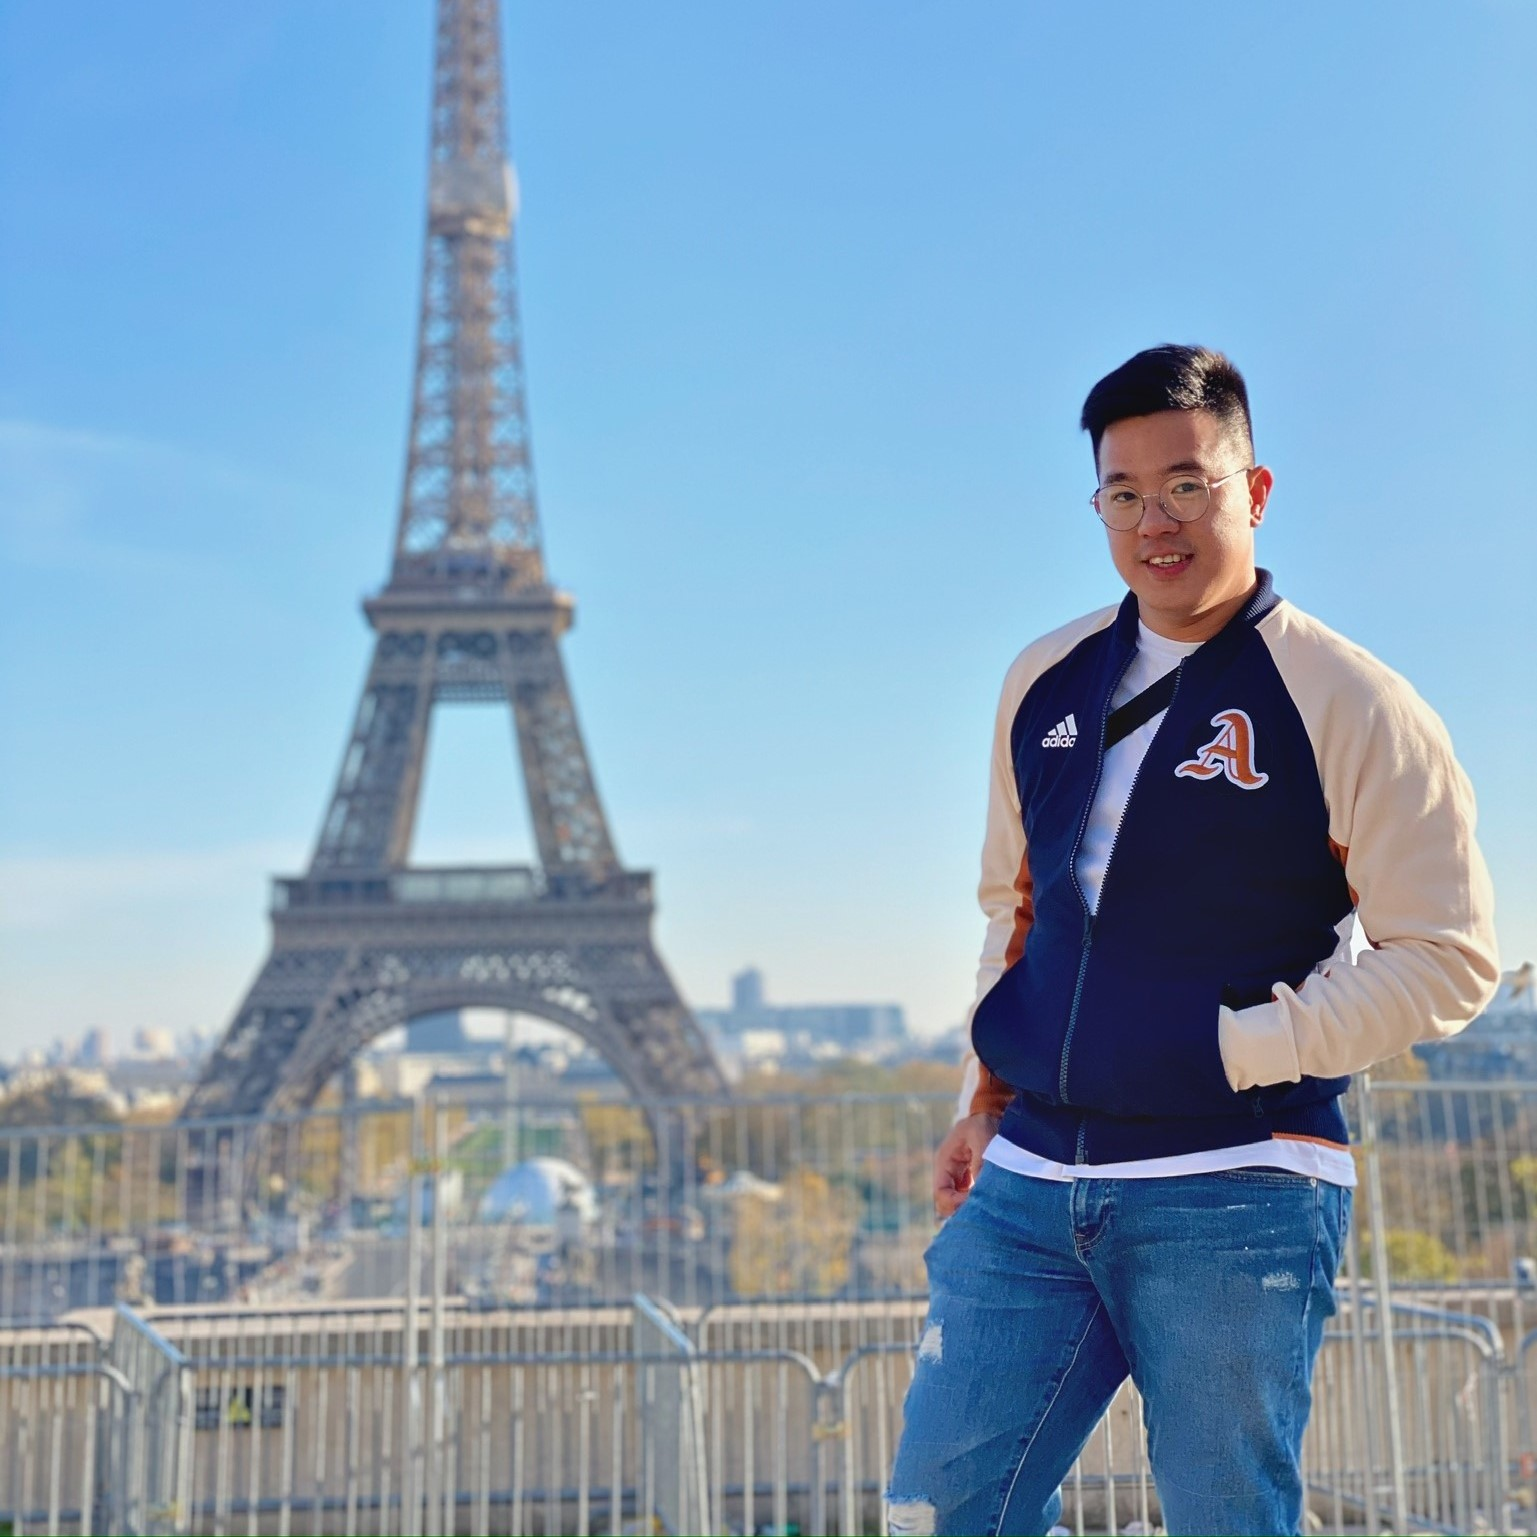
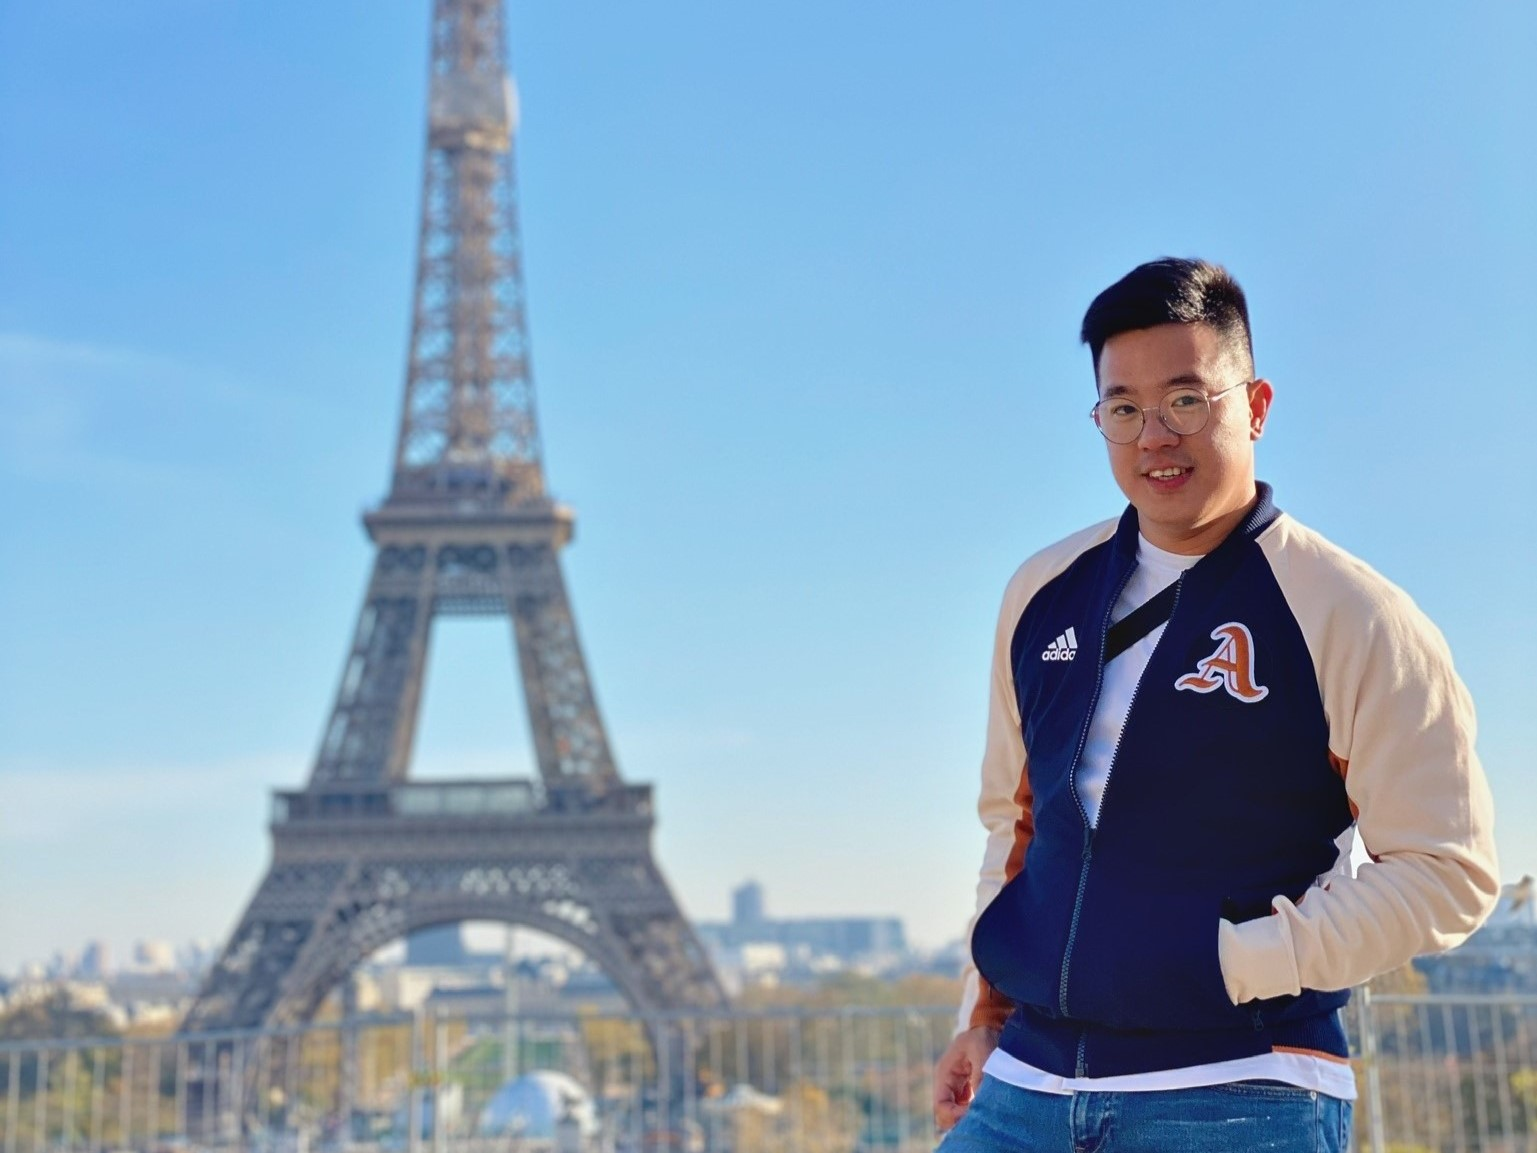
debugged and fixed journey slider's undesired display
also resized all photos to ratio 4:3

diff --git a/my-react-portfolio/src/components/portfolio/portfolio.css b/my-react-portfolio/src/components/portfolio/portfolio.css
@@ -2,32 +2,19 @@
     padding-top: 2.5rem;
 }
 
-.portfolio_container {
-    display: grid;
-    grid-template-columns: repeat(3, 1fr);
-    gap: 2.5rem;
-}
-
 .portfolio_item {
     background: var(--color-bg-variant);
     padding: 1.2rem;
     border-radius: 2rem;
     border: 1px solid transparent;
     transition: var(--transition);
-    max-width: 700px;
-    max-height: 48vh;
+    max-width: 900px;
+    max-height: 750px;
 }
 
 .portfolio_item-img {
     border-radius: 1.5rem;
     overflow: hidden;
-    max-width: 600px;
-    max-height: 40vh;
-    background-repeat: no-repeat;
-    background-size: contain;
-    text-align: center;
-    background-position: center;
-    object-fit: contain;
 }
 
 .portfolio_item h3 {
@@ -40,18 +27,41 @@
     margin-bottom: 1rem;
 }
   
+/* ==================== MEDIA (Big Devices - Tablets) ==================== */
+@media screen and (max-width: 1440px) {
+
+    .portfolio_item {
+        max-width: 700px;
+        max-height: 600px;
+    }
+    
+    .portfolio_item h3 {
+        font-size: 1rem;
+    }
+}
 
 /* ==================== MEDIA (Medium Devices - Tablets) ==================== */
 @media screen and (max-width: 1024px) {
-    .portfolio_container {
-        grid-template-columns: 1fr 1fr;
+
+    .portfolio_item {
+        max-width: 500px;
+        max-height: 450px;
+    }
+    
+    .portfolio_item h3 {
+        font-size: 1rem;
     }
 }
 
 /* ==================== MEDIA (Small Devices - Phones) ==================== */
 @media screen and (max-width: 600px) {
-    .portfolio_container {
-        grid-template-columns: 1fr;
-        gap: 1rem;
+
+    .portfolio_item {
+        max-width: 300px;
+        max-height: 270px;
+    }
+    
+    .portfolio_item h3 {
+        font-size: 0.6rem;
     }
 }

diff --git a/my-react-portfolio/src/components/portfolio/portfolioData.jsx b/my-react-portfolio/src/components/portfolio/portfolioData.jsx
@@ -35,7 +35,7 @@ const data = [
   {
     id: 6,
     image: IMAGES.IMG6,
-    title: 'Golden Gate Brg, San Francisco, CA, United States',
+    title: 'San Francisco, United States',
     year: '2023'
   },
   {
@@ -84,7 +84,7 @@ const data = [
   {
     id: 14,
     image: IMAGES.IMG14,
-    title: 'Reflections at Keppel Bay, Singapore',
+    title: 'Keppel Bay, Singapore',
     year: '2022'
   },
   {
@@ -120,7 +120,7 @@ const data = [
   {
     id: 20,
     image: IMAGES.IMG20,
-    title: 'Mount Rushmore National Memorial, United States',
+    title: 'Mount Rushmore, United States',
     year: '2023'
   },
   {
@@ -138,7 +138,7 @@ const data = [
   {
     id: 23,
     image: IMAGES.IMG23,
-    title: 'Puffing Billy Railway, Victoria, Australia',
+    title: 'Puffing Billy, Australia',
     year: '2022'
 
   },
@@ -279,13 +279,13 @@ const data = [
   {
     id: 46,
     image: IMAGES.IMG46,
-    title: 'Morialta Park, South Australia, Australia',
+    title: 'Morialta Park, SA, Australia',
     year: '2022'
   },
   {
     id: 47,
     image: IMAGES.IMG47,
-    title: 'Royal Exhibition Building, Melbourne, Victoria, Australia',
+    title: 'Melbourne, Australia',
     year: '2022'
   }
 
